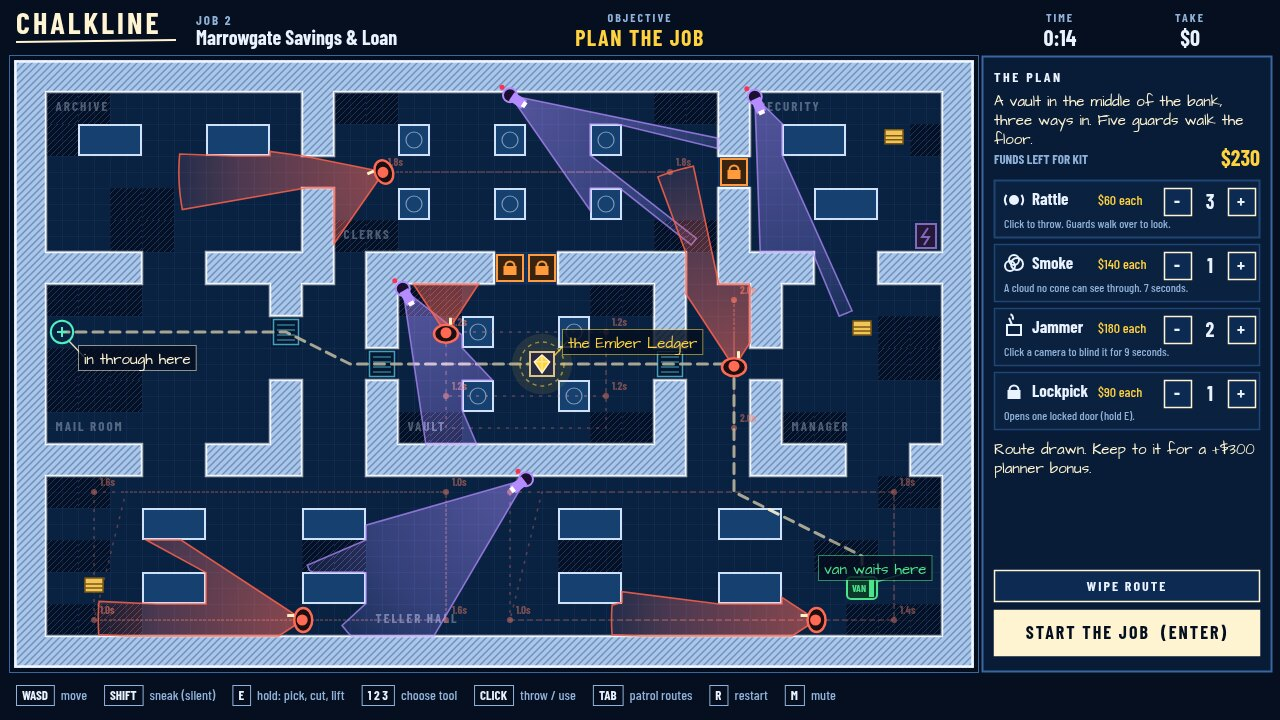
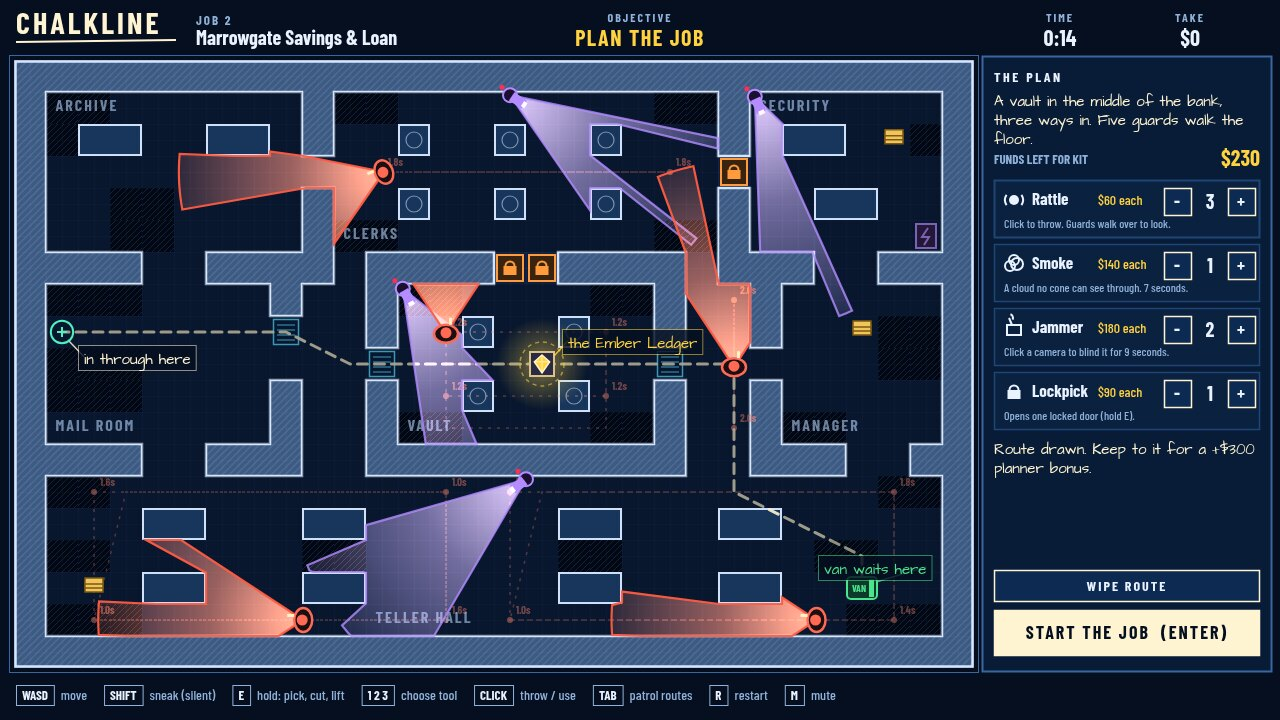
Night pass: darker floors and walls, brighter torch cones, readable room names, loot note first

diff --git a/game/src/render.js b/game/src/render.js
@@ -4,7 +4,7 @@ import { MAP, COLOR, SIGHT } from './config.js';
 import { guardRange, GUARD_STATE } from './guard.js';
 import { cameraOffline } from './camera.js';
 import { aimTool } from './tools.js';
-import { paintBlueprint, paintFloorMask } from './blueprint.js';
+import { paintBlueprint, paintFloorMask, drawRoomLabels } from './blueprint.js';
 import { coneColors, coneShape, drawCone, drawNight, drawPatrolRoutes, drawPlan } from './cones.js';
 import { drawDoors, drawFuses, drawCash, drawMark, drawVan, drawSmokes, drawNoises } from './props.js';
 import { drawCamera, drawGuard, drawThief, drawTaskRing, drawFloaters, chalkNote } from './actors.js';
@@ -58,7 +58,8 @@ export function drawWorld(ctx, run, time, mouse, options = {}) {
   const lenses = run.cameras.filter((camera) => !cameraOffline(run, camera)).map((camera) => ({ camera, shape: coneShape(run, camera.x, camera.y, camera.heading, SIGHT.cameraHalf, SIGHT.cameraRange) }));
   const range = guardRange(run);
   const torches = run.guards.map((guard) => ({ guard, shape: coneShape(run, guard.x, guard.y, guard.heading, SIGHT.guardHalf, range) }));
-  drawNight(ctx, sheets.floor, [...lenses, ...torches].map((cone) => cone.shape), run.phase === 'plan' ? 0.35 : 0.62);
+  drawNight(ctx, sheets.floor, [...lenses, ...torches].map((cone) => cone.shape), run.phase === 'plan' ? 0.4 : 0.95);
+  drawRoomLabels(ctx, run.job);
   drawCash(ctx, run, time);
   drawMark(ctx, run, time);
   drawVan(ctx, run, time);

diff --git a/game/src/notes.js b/game/src/notes.js
@@ -48,6 +48,8 @@ function nearest(list, x, y, skip) {
 export function fieldNotes(run, limit = 5) {
   const thief = run.thief;
   const notes = [{ subject: thief, text: thiefLine(run), color: run.seenBy.length > 0 ? 'danger' : 'thief' }];
+  if (thief.carrying) notes.push({ subject: run.map.exit, text: 'VAN: get here with the mark', color: 'exit' });
+  else notes.push({ subject: run.map.mark, text: `${run.job.mark.name.toUpperCase()}: $${run.job.mark.value.toLocaleString('en-US')}`, color: 'loot' });
   const guards = [...run.guards].sort((a, b) => Math.hypot(a.x - thief.x, a.y - thief.y) - Math.hypot(b.x - thief.x, b.y - thief.y));
   for (const guard of guards.slice(0, 2)) {
     const color = guard.state === G.CHASE ? 'danger' : guard.state === G.PATROL || guard.state === G.WAIT ? 'guard' : 'suspect';
@@ -59,8 +61,6 @@ export function fieldNotes(run, limit = 5) {
     const left = Math.ceil(Math.max(camera.jammed, run.powerCut));
     notes.push({ subject: camera, text: off ? `CAMERA: blind for ${left}s` : camera.lock > 0 ? 'CAMERA: has you, recording' : `CAMERA: sweeps, ${Math.round(SIGHT.cameraRange / 32)} tiles deep`, color: 'camera' });
   }
-  if (thief.carrying) notes.push({ subject: run.map.exit, text: 'VAN: get here with the mark', color: 'exit' });
-  else notes.push({ subject: run.map.mark, text: `${run.job.mark.name.toUpperCase()}: $${run.job.mark.value.toLocaleString('en-US')}`, color: 'loot' });
   return notes.slice(0, limit);
 }
 

diff --git a/game/src/cones.js b/game/src/cones.js
@@ -28,14 +28,23 @@ export function coneShape(run, x, y, heading, half, range) {
 export function drawCone(ctx, shape, rgb, strength) {
   const { x, y, range, points } = shape;
   const gradient = ctx.createRadialGradient(x, y, 6, x, y, range);
-  gradient.addColorStop(0, `${rgb}${0.5 * strength})`);
-  gradient.addColorStop(0.7, `${rgb}${0.26 * strength})`);
-  gradient.addColorStop(1, `${rgb}${0.1 * strength})`);
+  gradient.addColorStop(0, `${rgb}${0.62 * strength})`);
+  gradient.addColorStop(0.55, `${rgb}${0.34 * strength})`);
+  gradient.addColorStop(1, `${rgb}${0.12 * strength})`);
   fillPolygon(ctx, points);
   ctx.fillStyle = gradient;
   ctx.fill();
-  ctx.strokeStyle = `${rgb}${0.85 * strength})`;
-  ctx.lineWidth = 1.6;
+  ctx.save();
+  ctx.globalCompositeOperation = 'lighter';
+  const hot = ctx.createRadialGradient(x, y, 2, x, y, range);
+  hot.addColorStop(0, 'rgba(255,236,190,0.5)');
+  hot.addColorStop(0.45, 'rgba(255,236,190,0.18)');
+  hot.addColorStop(1, 'rgba(255,236,190,0.03)');
+  ctx.fillStyle = hot;
+  ctx.fill();
+  ctx.restore();
+  ctx.strokeStyle = `${rgb}${0.95 * strength})`;
+  ctx.lineWidth = 2.2;
   ctx.stroke();
 }
 

diff --git a/game/src/blueprint.js b/game/src/blueprint.js
@@ -73,16 +73,18 @@ export function paintBlueprint(map, job) {
   paintCover(ctx, map);
   paintWallEdges(ctx, map);
 
-  ctx.font = `600 13px ${FONT.ui}`;
-  ctx.textBaseline = 'alphabetic';
-  ctx.fillStyle = 'rgba(200,222,250,0.55)';
-  for (const room of job.rooms) {
-    ctx.save();
-    ctx.letterSpacing = '2px';
-    ctx.fillText(room.label, room.x * TILE, room.y * TILE);
-    ctx.restore();
-  }
   return canvas;
+}
+
+/** Room names, drawn above the night layer so they stay readable in the dark. */
+export function drawRoomLabels(ctx, job) {
+  ctx.save();
+  ctx.font = `700 16px ${FONT.ui}`;
+  ctx.textBaseline = 'alphabetic';
+  ctx.letterSpacing = '2px';
+  ctx.fillStyle = 'rgba(176,204,240,0.62)';
+  for (const room of job.rooms) ctx.fillText(room.label, room.x * TILE, room.y * TILE);
+  ctx.restore();
 }
 
 /** An opaque mask of the tiles night falls on (floor, shadow, vents), so walls and cases stay crisp. */

diff --git a/game/src/config.js b/game/src/config.js
@@ -19,23 +19,23 @@ export const PICK_SECONDS = 1.2;
 
 export const COLOR = {
   night: '#050f20',
-  paper: '#0c2548',
-  room: '#0f2c55',
-  gridMinor: 'rgba(130,180,240,0.07)',
+  paper: '#0a1a33',
+  room: '#0c1e3c',
+  gridMinor: 'rgba(130,180,240,0.05)',
   gridMajor: 'rgba(150,195,250,0.15)',
-  shadow: '#061631',
-  shadowHatch: 'rgba(96,152,224,0.42)',
-  wall: '#a9c6ec',
-  wallHatch: 'rgba(12,37,72,0.35)',
-  wallEdge: '#eef5ff',
-  furniture: '#16406f',
+  shadow: '#030915',
+  shadowHatch: 'rgba(96,152,224,0.30)',
+  wall: '#3d5a82',
+  wallHatch: 'rgba(170,205,250,0.16)',
+  wallEdge: '#d6e6ff',
+  furniture: '#18355c',
   furnitureLine: '#cfe1f8',
   vent: '#08203f',
   ventLine: '#5fd8ff',
   lock: '#ff9b3d',
   door: '#8fb6e6',
   guard: '#ff6a55',
-  guardCone: 'rgba(255,98,74,',
+  guardCone: 'rgba(255,92,66,',
   suspect: '#ffb648',
   suspectCone: 'rgba(255,182,72,',
   chase: '#ff3d3d',

diff --git a/game/src/props.js b/game/src/props.js
@@ -71,9 +71,12 @@ export function drawMark(ctx, run, time) {
   const mark = run.map.mark;
   const pulse = 0.5 + 0.5 * Math.sin(time * 3);
   ctx.save();
-  ctx.fillStyle = `rgba(255,210,63,${0.1 + 0.08 * pulse})`;
+  const halo = ctx.createRadialGradient(mark.x, mark.y, 4, mark.x, mark.y, 46 + pulse * 6);
+  halo.addColorStop(0, `rgba(255,214,80,${0.42 + 0.1 * pulse})`);
+  halo.addColorStop(1, 'rgba(255,214,80,0)');
+  ctx.fillStyle = halo;
   ctx.beginPath();
-  ctx.arc(mark.x, mark.y, 30 + pulse * 6, 0, Math.PI * 2);
+  ctx.arc(mark.x, mark.y, 46 + pulse * 6, 0, Math.PI * 2);
   ctx.fill();
   ctx.strokeStyle = `rgba(255,210,63,${0.55 + 0.3 * pulse})`;
   ctx.lineWidth = 1.5;

diff --git a/game/src/main.js b/game/src/main.js
@@ -202,7 +202,7 @@ export function draw(options = {}) {
   if (notes) {
     ctx.save();
     ctx.translate(MAP.x, MAP.y);
-    drawFieldNotes(ctx, fieldNotes(run, options.noteLimit ?? 5));
+    drawFieldNotes(ctx, fieldNotes(run, options.noteLimit ?? 5), 17);
     ctx.restore();
   }
   if (planning) startMarker(ctx, run);
